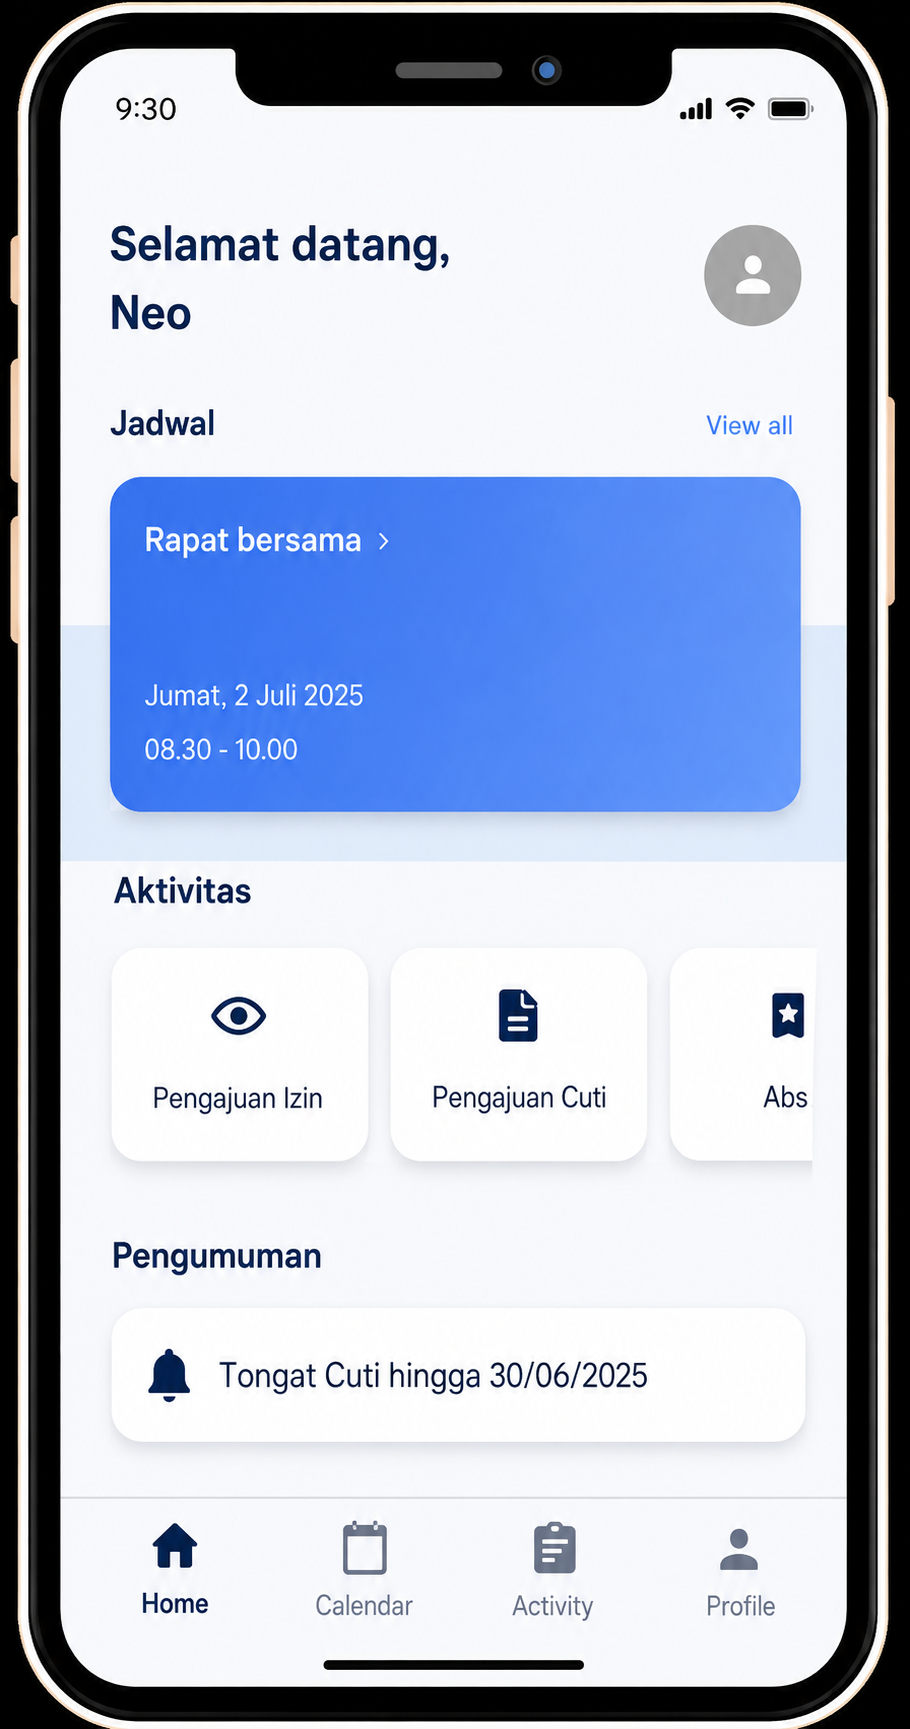
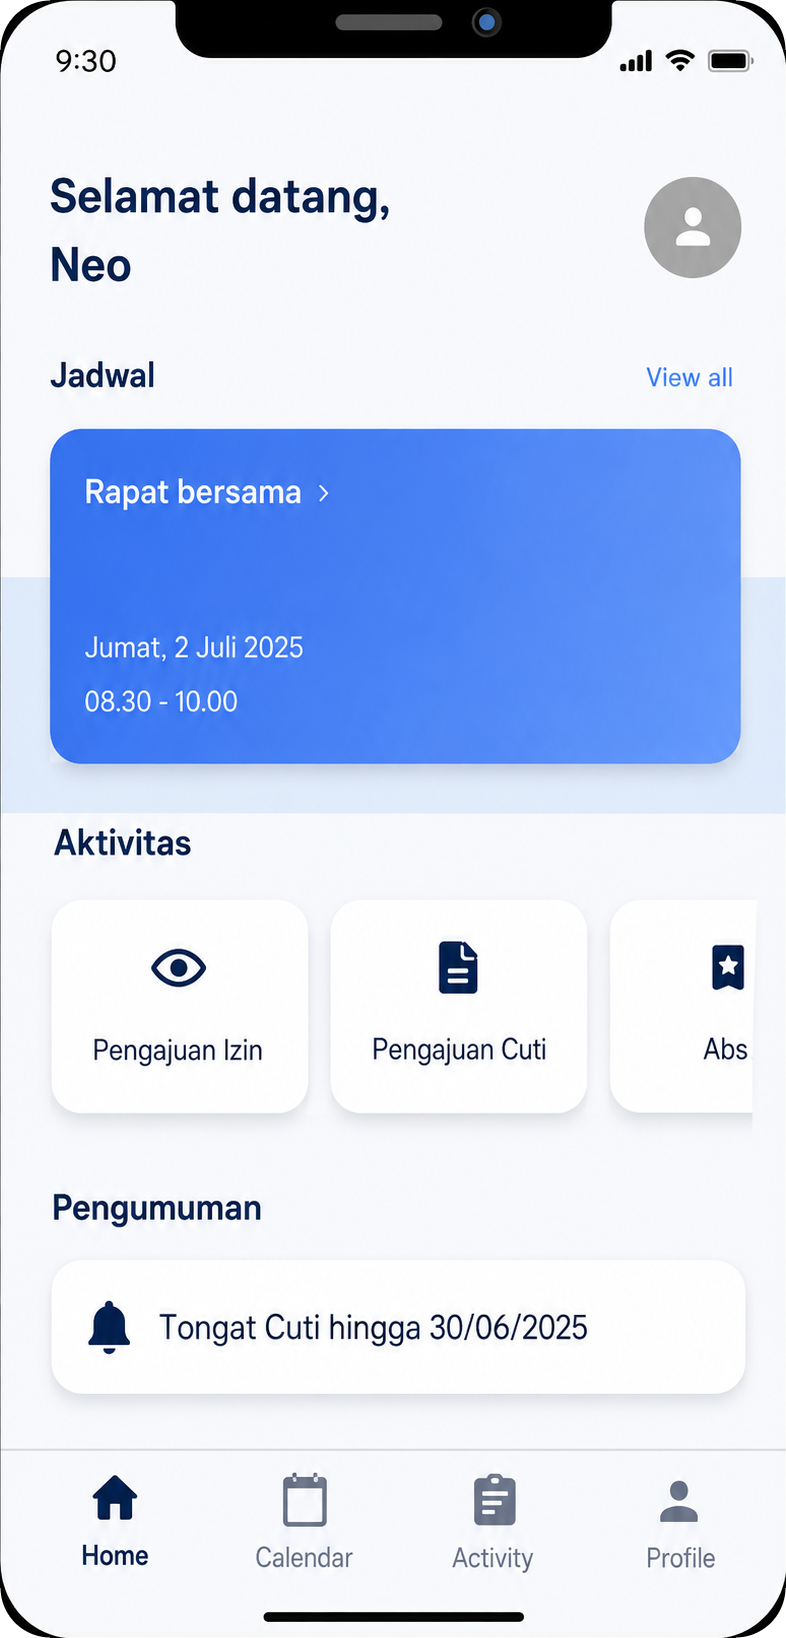
new update

diff --git a/src/components/work/ProjectCard.tsx b/src/components/work/ProjectCard.tsx
@@ -80,21 +80,22 @@ export function ProjectCard({ project, index }: ProjectCardProps) {
       </div>
 
       {/* Visual Image Showcase Container */}
-      <div className="relative w-full aspect-[16/10] bg-[#EBEBE8] overflow-hidden border-y border-[#D9D9D9]">
+      <div className="relative w-full aspect-[16/10] bg-[#EBEBE8] editorial-grid overflow-hidden border-y border-[#D9D9D9] flex items-center justify-center p-3 sm:p-4">
         <AnimatePresence mode="wait">
           <motion.div
             key={currentImageIndex}
             initial={{ opacity: 0 }}
             animate={{ opacity: 1 }}
             exit={{ opacity: 0 }}
-            transition={{ duration: 0.4 }}
-            className="relative w-full h-full"
+            transition={{ duration: 0.35 }}
+            className="relative w-full h-full flex items-center justify-center"
           >
             <Image
               src={images[currentImageIndex]}
               alt={`${project.title} - Preview ${currentImageIndex + 1}`}
               fill
-              className="object-cover object-top transition-transform duration-500 ease-out group-hover:scale-[1.02]"
+              className="object-contain transition-transform duration-500 ease-out group-hover:scale-[1.02] drop-shadow-sm rounded-lg"
+              sizes="(max-width: 768px) 100vw, (max-width: 1200px) 50vw, 33vw"
             />
           </motion.div>
         </AnimatePresence>
@@ -103,7 +104,7 @@ export function ProjectCard({ project, index }: ProjectCardProps) {
         {images.length > 1 && (
           <>
             {/* Left / Right arrow navigation (visible on hover) */}
-            <div className={`absolute inset-y-0 left-2 flex items-center z-10 transition-opacity duration-200 ${isHovered ? "opacity-100" : "opacity-0"}`}>
+            <div className={`absolute inset-y-0 left-2.5 flex items-center z-10 transition-opacity duration-200 ${isHovered ? "opacity-100" : "opacity-0"}`}>
               <button
                 onClick={handlePrevImage}
                 className="p-1.5 rounded-full bg-[#111111]/80 text-[#F5F5F3] hover:bg-[#111111] transition-colors shadow"
@@ -112,7 +113,7 @@ export function ProjectCard({ project, index }: ProjectCardProps) {
                 <ChevronLeft className="w-3.5 h-3.5" />
               </button>
             </div>
-            <div className={`absolute inset-y-0 right-2 flex items-center z-10 transition-opacity duration-200 ${isHovered ? "opacity-100" : "opacity-0"}`}>
+            <div className={`absolute inset-y-0 right-2.5 flex items-center z-10 transition-opacity duration-200 ${isHovered ? "opacity-100" : "opacity-0"}`}>
               <button
                 onClick={handleNextImage}
                 className="p-1.5 rounded-full bg-[#111111]/80 text-[#F5F5F3] hover:bg-[#111111] transition-colors shadow"
@@ -122,8 +123,8 @@ export function ProjectCard({ project, index }: ProjectCardProps) {
               </button>
             </div>
 
-            {/* Pagination dots & label */}
-            <div className="absolute bottom-3 left-1/2 -translate-x-1/2 flex items-center gap-1.5 px-2.5 py-1 rounded-full bg-[#111111]/75 backdrop-blur-sm border border-white/20 z-10">
+            {/* Pagination dots */}
+            <div className="absolute bottom-2.5 left-1/2 -translate-x-1/2 flex items-center gap-1.5 px-2.5 py-1 rounded-full bg-[#111111]/75 backdrop-blur-sm border border-white/20 z-10">
               {images.map((_, i) => (
                 <button
                   key={i}
@@ -138,10 +139,6 @@ export function ProjectCard({ project, index }: ProjectCardProps) {
                   aria-label={`Slide ${i + 1}`}
                 />
               ))}
-            </div>
-
-            <div className="absolute top-3 right-3 px-2 py-0.5 rounded bg-[#111111]/70 backdrop-blur-sm text-[10px] font-mono text-white font-medium z-10">
-              {currentImageIndex === 0 ? "DESKTOP VIEW" : "MOBILE VIEW"}
             </div>
           </>
         )}

diff --git a/src/components/work/CaseStudyLayout.tsx b/src/components/work/CaseStudyLayout.tsx
@@ -88,13 +88,13 @@ export function CaseStudyLayout({ project, nextProject }: CaseStudyLayoutProps) 
                   <button
                     key={idx}
                     onClick={() => setActiveImgIndex(idx)}
-                    className={`px-3 py-1.5 rounded transition-all ${
+                    className={`px-3 py-1.5 rounded font-mono text-xs transition-all ${
                       activeImgIndex === idx
                         ? "bg-[#111111] text-[#F5F5F3] font-semibold"
                         : "bg-[#FFFFFF] text-[#737373] border border-[#D9D9D9] hover:text-[#111111]"
                     }`}
                   >
-                    {idx === 0 ? "DESKTOP / OVERVIEW" : "MOBILE VIEW"}
+                    {idx === 0 ? "PREVIEW 01" : `PREVIEW 0${idx + 1}`}
                   </button>
                 ))}
               </div>
@@ -103,24 +103,26 @@ export function CaseStudyLayout({ project, nextProject }: CaseStudyLayoutProps) 
               </span>
             </div>
 
-            <div className="relative w-full aspect-[16/10] bg-[#FFFFFF] border border-[#D9D9D9] rounded-xl overflow-hidden shadow-sm">
+            <div className="relative w-full aspect-[16/10] bg-[#EBEBE8] editorial-grid border border-[#D9D9D9] rounded-xl overflow-hidden shadow-sm flex items-center justify-center p-4 sm:p-6">
               <Image
                 src={project.images[activeImgIndex]}
                 alt={`${project.title} screenshot ${activeImgIndex + 1}`}
                 fill
                 priority
-                className="object-cover object-top transition-opacity duration-300"
+                className="object-contain drop-shadow-md rounded-lg transition-opacity duration-300"
+                sizes="(max-width: 1024px) 100vw, 896px"
               />
             </div>
           </div>
         ) : (
-          <div className="relative w-full aspect-[16/10] bg-[#FFFFFF] border border-[#D9D9D9] rounded-xl overflow-hidden mb-16 shadow-sm">
+          <div className="relative w-full aspect-[16/10] bg-[#EBEBE8] editorial-grid border border-[#D9D9D9] rounded-xl overflow-hidden mb-16 shadow-sm flex items-center justify-center p-4 sm:p-6">
             <Image
               src={project.coverImage}
               alt={project.title}
               fill
               priority
-              className="object-cover"
+              className="object-contain drop-shadow-md rounded-lg"
+              sizes="(max-width: 1024px) 100vw, 896px"
             />
           </div>
         )}

diff --git a/src/data/portfolioData.ts b/src/data/portfolioData.ts
@@ -345,7 +345,7 @@ export const projects: Project[] = [
     featured: true,
     caseStudy: {
       overview:
-        "CV Chandra Kirana Indonesia is an Indonesian industrial services and trading company. The company partnered with CodeVela (with Bernhardth Neo Videan as the developer) to engineer a modern, high-credibility corporate web presence that showcases their industrial capabilities, certifications, and service portfolio to prospective enterprise clients.",
+        "CV Chandra Kirana Indonesia is an Indonesian industrial services and construction company. The company partnered with CodeVela (with Bernhardth Neo Videan as the developer) to engineer a modern, high-credibility corporate web presence that showcases their industrial capabilities, certifications, and service portfolio to prospective enterprise clients.",
       problem:
         "The company lacked an authoritative digital presence that could clearly articulate their technical specifications, industrial service offerings, and credibility badges to institutional clients and B2B partners across Indonesia.",
       solution:
